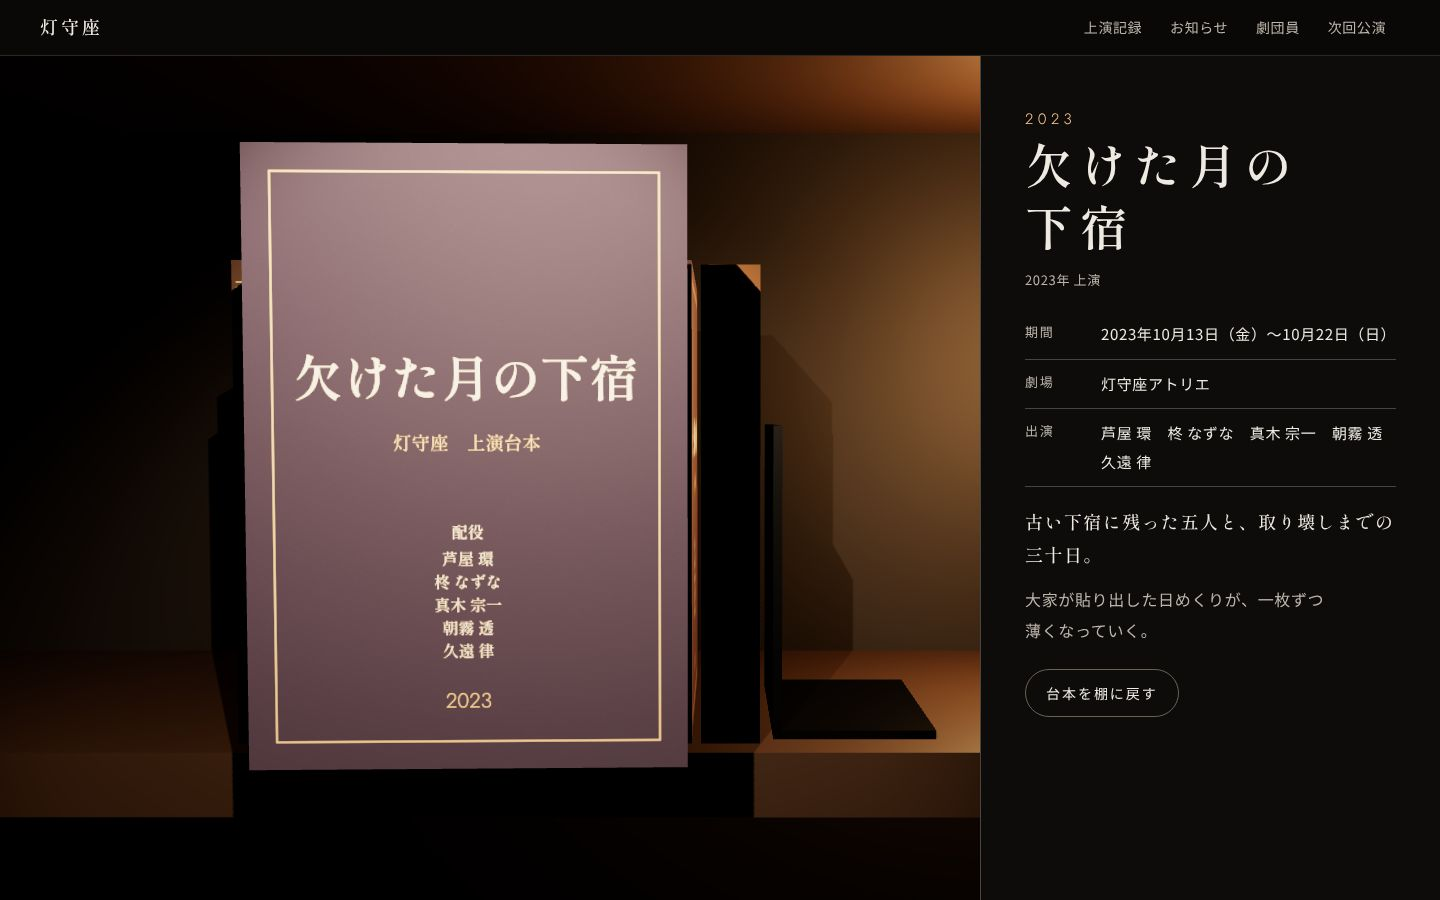
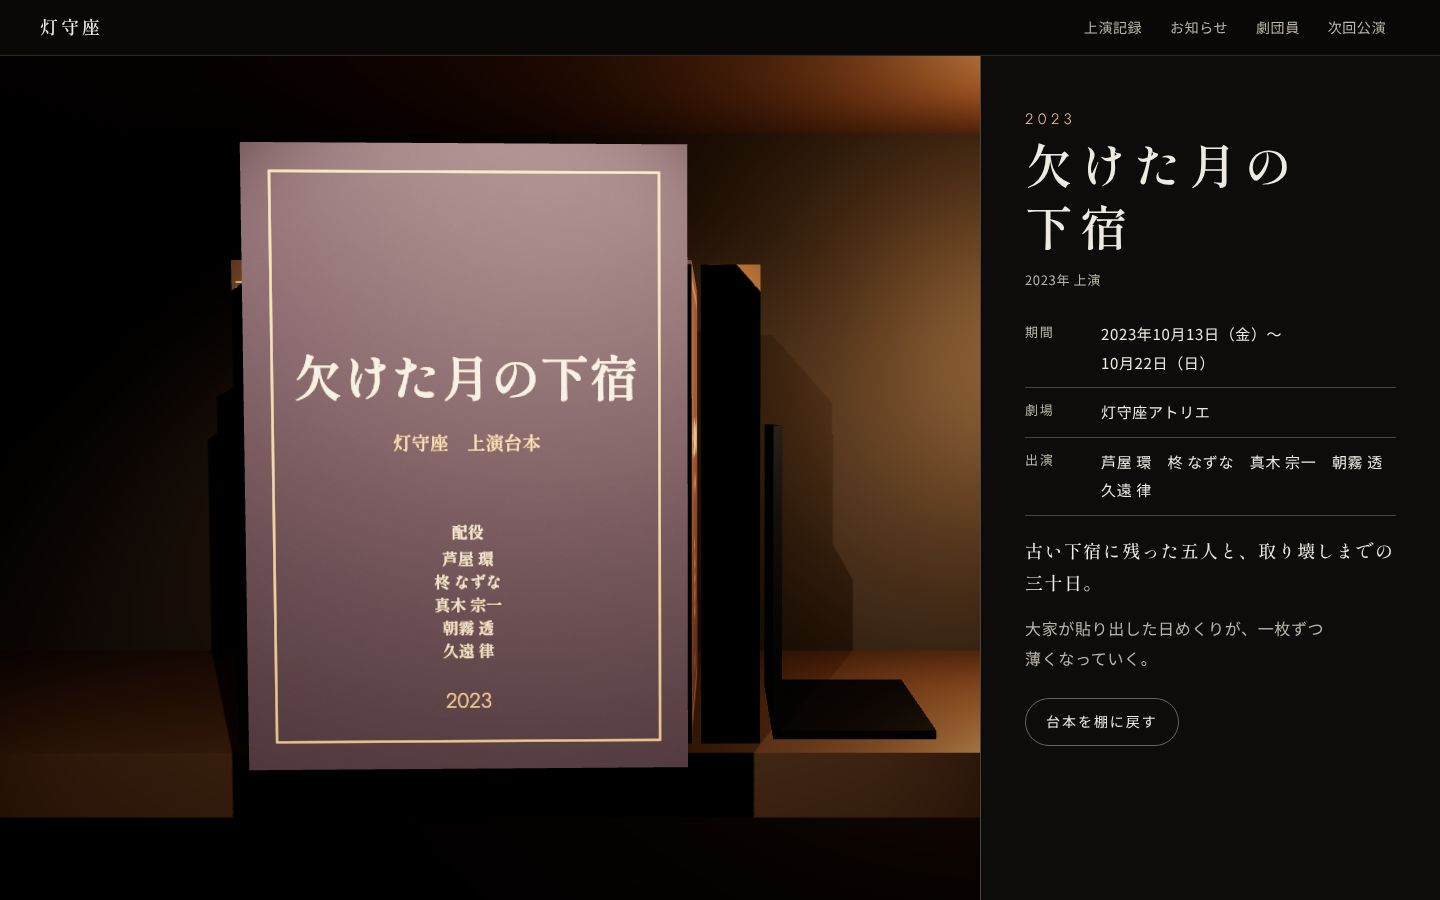
S02-03：劇団 灯守座 公式サイトを完成品（5.67）として保存。審査2回目のあとにスマホでの canvas の潰れと人名の改行を直して公開を更新し、知見を追記
Claude-Session: https://claude.ai/code/session_01BwmUGTgfPEj1Tu5124aDtq

Changed region(s): [[0.7188, 0.3733, 0.9688, 0.8089], [0.875, 0.56, 0.9688, 0.6222], [0.9062, 0.3422, 0.9375, 0.4044]]

diff --git a/studio/projects/S02-03-troupe-site/site/index.html b/studio/projects/S02-03-troupe-site/site/index.html
@@ -6,7 +6,7 @@
 <title>灯守座 公式サイト</title>
 <meta name="description" content="架空の劇団・灯守座の公式サイト。これまでの上演が、劇場の棚に並ぶ台本として並ぶ見本（天狼スタジオ制作）。">
 <link rel="preconnect" href="https://fonts.googleapis.com">
-<link id="fm" rel="stylesheet" href="https://fonts.googleapis.com/css2?family=Shippori+Mincho:wght@500;600&display=swap&text=0123456789%E3%80%80%E3%80%81%E3%80%82%E3%80%8E%E3%80%8F%E3%80%9C%E3%81%82%E3%81%84%E3%81%86%E3%81%88%E3%81%8A%E3%81%8B%E3%81%8C%E3%81%8D%E3%81%8E%E3%81%8F%E3%81%91%E3%81%92%E3%81%93%E3%81%95%E3%81%96%E3%81%97%E3%81%98%E3%81%99%E3%81%9A%E3%81%9B%E3%81%9D%E3%81%9F%E3%81%A0%E3%81%A3%E3%81%A4%E3%81%A6%E3%81%A7%E3%81%A8%E3%81%A9%E3%81%AA%E3%81%AB%E3%81%AD%E3%81%AE%E3%81%AF%E3%81%B0%E3%81%B2%E3%81%B3%E3%81%B6%E3%81%B8%E3%81%B9%E3%81%BB%E3%81%BE%E3%81%BF%E3%82%80%E3%82%81%E3%82%82%E3%82%88%E3%82%89%E3%82%8A%E3%82%8B%E3%82%8C%E3%82%8D%E3%82%8F%E3%82%92%E3%82%93%E3%82%A2%E3%82%A4%E3%82%A6%E3%82%A7%E3%82%A8%E3%82%AA%E3%82%AB%E3%82%AD%E3%82%AF%E3%82%B1%E3%82%B4%E3%82%B5%E3%82%B7%E3%82%B8%E3%82%B9%E3%82%BF%E3%83%81%E3%83%83%E3%83%87%E3%83%88%E3%83%89%E3%83%91%E3%83%95%E3%83%96%E3%83%97%E3%83%9A%E3%83%9B%E3%83%9C%E3%83%A0%E3%83%A7%E3%83%A9%E3%83%AA%E3%83%AB%E3%83%AC%E3%83%B3%E3%83%BB%E3%83%BC%E4%B8%80%E4%B8%89%E4%B8%8A%E4%B8%8B%E4%B8%A6%E4%B8%AD%E4%B8%BB%E4%B9%85%E4%B9%97%E4%BA%88%E4%BA%8C%E4%BA%92%E4%BA%94%E4%BA%A4%E4%BA%BA%E4%BB%A3%E4%BB%B6%E4%BC%91%E4%BC%9A%E4%BD%9C%E4%BF%82%E4%BF%B3%E5%80%89%E5%80%9F%E5%82%98%E5%82%99%E5%84%AA%E5%85%A5%E5%85%AC%E5%86%85%E5%86%99%E5%86%AC%E5%87%BA%E5%88%86%E5%88%97%E5%88%B6%E5%89%8D%E5%8A%87%E5%8A%A0%E5%8B%95%E5%8C%96%E5%8D%81%E5%8D%8A%E5%8D%B0%E5%8F%96%E5%8F%A3%E5%8F%A4%E5%8F%B0%E5%8F%B3%E5%90%88%E5%90%8C%E5%90%8D%E5%90%91%E5%93%81%E5%93%A1%E5%96%AB%E5%9B%9E%E5%9B%A3%E5%9C%A8%E5%9C%B0%E5%A0%B4%E5%A3%81%E5%A3%8A%E5%A3%AB%E5%A3%B2%E5%A4%8F%E5%A4%9A%E5%A4%9C%E5%A4%A7%E5%A4%A9%E5%A5%A5%E5%A8%98%E5%AD%90%E5%AD%A6%E5%AE%88%E5%AE%97%E5%AE%9A%E5%AE%9F%E5%AE%A2%E5%AE%AE%E5%AE%B0%E5%AE%B6%E5%AE%BF%E5%AF%84%E5%AF%9D%E5%B0%8F%E5%B0%91%E5%B1%85%E5%B1%8B%E5%B2%AC%E5%B3%B0%E5%B7%9D%E5%B7%A6%E5%B7%BB%E5%B8%83%E5%B8%AD%E5%B8%B0%E5%B8%B3%E5%B9%B4%E5%BA%97%E5%BA%A7%E5%BA%AB%E5%BC%8F%E5%BC%95%E5%BC%B5%E5%BD%B9%E5%BE%8B%E5%BE%8C%E6%88%BB%E6%89%80%E6%89%8B%E6%8A%9C%E6%8A%BC%E6%8B%A0%E6%8C%81%E6%8C%87%E6%8F%9A%E6%96%87%E6%96%B0%E6%97%97%E6%97%A5%E6%98%8E%E6%99%82%E6%99%A9%E6%9B%B8%E6%9C%80%E6%9C%88%E6%9C%9D%E6%9C%9F%E6%9C%A8%E6%9C%AB%E6%9C%AC%E6%9D%A5%E6%9D%BF%E6%9E%9A%E6%9E%B6%E6%9F%8A%E6%A0%A1%E6%A3%9A%E6%A4%85%E6%A4%9C%E6%A8%AA%E6%AC%A0%E6%AC%A1%E6%AD%A2%E6%AE%8B%E6%AE%B5%E6%AF%8E%E6%B1%BA%E6%B5%81%E6%B8%AC%E6%B8%AF%E6%BC%94%E7%81%AB%E7%81%AF%E7%82%B9%E7%85%A7%E7%89%A9%E7%8B%BC%E7%8E%B2%E7%90%83%E7%90%86%E7%92%B0%E7%94%B1%E7%94%BA%E7%94%BB%E7%95%AA%E7%99%BD%E7%9B%AE%E7%9C%9F%E7%9D%80%E7%9F%A2%E7%9F%A5%E7%A2%BA%E7%A7%BB%E7%A8%8B%E7%A8%BD%E7%A9%BA%E7%AB%8B%E7%AF%A0%E7%B4%84%E7%B4%99%E7%B4%A2%E7%B5%82%E7%B5%90%E7%B7%92%E7%B7%9E%E7%B7%A0%E7%B8%A6%E8%81%9E%E8%83%8C%E8%88%9E%E8%88%9F%E8%89%98%E8%8A%9D%E8%8A%A6%E8%8C%B6%E8%96%84%E8%A1%8C%E8%A1%A8%E8%A3%8F%E8%A3%B8%E8%A6%8B%E8%A6%96%E8%A6%A7%E8%A8%88%E8%A8%98%E8%A9%B1%E8%AA%8D%E8%AA%B0%E8%AD%B0%E8%B2%A8%E8%B2%A9%E8%B2%BC%E8%B5%B0%E8%B6%85%E8%B6%B3%E8%BB%8A%E8%BB%A2%E8%BE%BC%E8%BF%BD%E9%80%8F%E9%81%8E%E9%81%A0%E9%81%A5%E9%81%B8%E9%85%8D%E9%87%8D%E9%87%8F%E9%87%91%E9%8C%B2%E9%8D%AE%E9%8D%B5%E9%96%89%E9%96%8B%E9%96%93%E9%9A%9B%E9%9B%91%E9%9B%A8%E9%9B%BB%E9%9C%A7%E9%9D%A2%E9%A0%86%E9%A1%8C%E9%A4%A8%EF%BC%88%EF%BC%89%EF%BC%9A">
+<link id="fm" rel="stylesheet" href="https://fonts.googleapis.com/css2?family=Shippori+Mincho:wght@500;600&display=swap&text=0123456789%E3%80%80%E3%80%81%E3%80%82%E3%80%8E%E3%80%8F%E3%80%9C%E3%81%82%E3%81%84%E3%81%86%E3%81%88%E3%81%8A%E3%81%8B%E3%81%8C%E3%81%8D%E3%81%8E%E3%81%8F%E3%81%91%E3%81%92%E3%81%93%E3%81%95%E3%81%96%E3%81%97%E3%81%98%E3%81%99%E3%81%9A%E3%81%9B%E3%81%9D%E3%81%9F%E3%81%A0%E3%81%A3%E3%81%A4%E3%81%A6%E3%81%A7%E3%81%A8%E3%81%A9%E3%81%AA%E3%81%AB%E3%81%AD%E3%81%AE%E3%81%AF%E3%81%B0%E3%81%B2%E3%81%B3%E3%81%B6%E3%81%B8%E3%81%B9%E3%81%BB%E3%81%BE%E3%81%BF%E3%82%80%E3%82%81%E3%82%82%E3%82%88%E3%82%89%E3%82%8A%E3%82%8B%E3%82%8C%E3%82%8D%E3%82%8F%E3%82%92%E3%82%93%E3%82%A2%E3%82%A4%E3%82%A6%E3%82%A7%E3%82%A8%E3%82%AA%E3%82%AB%E3%82%AD%E3%82%AF%E3%82%B1%E3%82%B4%E3%82%B5%E3%82%B7%E3%82%B8%E3%82%B9%E3%82%BF%E3%83%81%E3%83%83%E3%83%87%E3%83%88%E3%83%89%E3%83%91%E3%83%95%E3%83%96%E3%83%97%E3%83%9A%E3%83%9B%E3%83%9C%E3%83%A0%E3%83%A7%E3%83%A9%E3%83%AA%E3%83%AB%E3%83%AC%E3%83%B3%E3%83%BB%E3%83%BC%E4%B8%80%E4%B8%89%E4%B8%8A%E4%B8%8B%E4%B8%A6%E4%B8%AD%E4%B8%BB%E4%B9%85%E4%B9%97%E4%BA%88%E4%BA%8C%E4%BA%92%E4%BA%94%E4%BA%A4%E4%BA%BA%E4%BB%A3%E4%BB%B6%E4%BC%91%E4%BC%9A%E4%BD%9C%E4%BF%82%E4%BF%B3%E5%80%89%E5%80%9F%E5%82%98%E5%82%99%E5%84%AA%E5%85%A5%E5%85%AC%E5%86%85%E5%86%99%E5%86%AC%E5%87%BA%E5%88%86%E5%88%97%E5%88%B6%E5%89%8D%E5%8A%87%E5%8A%A0%E5%8B%95%E5%8C%96%E5%8D%81%E5%8D%8A%E5%8D%B0%E5%8F%96%E5%8F%A3%E5%8F%A4%E5%8F%B0%E5%8F%B3%E5%90%88%E5%90%8C%E5%90%8D%E5%90%91%E5%93%81%E5%93%A1%E5%96%AB%E5%9B%9E%E5%9B%A3%E5%9C%A8%E5%9C%B0%E5%A0%B4%E5%A3%81%E5%A3%8A%E5%A3%AB%E5%A3%B2%E5%A4%89%E5%A4%8F%E5%A4%9A%E5%A4%9C%E5%A4%A7%E5%A4%A9%E5%A5%A5%E5%A8%98%E5%AD%90%E5%AD%A6%E5%AE%88%E5%AE%97%E5%AE%9A%E5%AE%9F%E5%AE%A2%E5%AE%AE%E5%AE%B0%E5%AE%B6%E5%AE%BF%E5%AF%84%E5%AF%9D%E5%B0%8F%E5%B0%91%E5%B1%85%E5%B1%8B%E5%B2%AC%E5%B3%B0%E5%B7%9D%E5%B7%A6%E5%B7%BB%E5%B8%83%E5%B8%AD%E5%B8%B0%E5%B8%B3%E5%B9%B4%E5%BA%97%E5%BA%A7%E5%BA%AB%E5%BC%8F%E5%BC%95%E5%BC%B5%E5%BD%B9%E5%BE%8B%E5%BE%8C%E6%88%BB%E6%89%80%E6%89%8B%E6%8A%9C%E6%8A%BC%E6%8B%A0%E6%8C%81%E6%8C%87%E6%8F%9A%E6%96%87%E6%96%B0%E6%97%97%E6%97%A5%E6%98%8E%E6%99%82%E6%99%A9%E6%9B%B8%E6%9C%80%E6%9C%88%E6%9C%9D%E6%9C%9F%E6%9C%A8%E6%9C%AB%E6%9C%AC%E6%9D%A5%E6%9D%BF%E6%9E%9A%E6%9E%B6%E6%9F%8A%E6%A0%A1%E6%A3%9A%E6%A4%85%E6%A4%9C%E6%A8%AA%E6%AC%A0%E6%AC%A1%E6%AD%A2%E6%AE%8B%E6%AE%B5%E6%AF%8E%E6%B1%BA%E6%B5%81%E6%B8%AC%E6%B8%AF%E6%BC%94%E7%81%AB%E7%81%AF%E7%82%B9%E7%85%A7%E7%89%A9%E7%8B%BC%E7%8E%B2%E7%90%83%E7%90%86%E7%92%B0%E7%94%B1%E7%94%BA%E7%94%BB%E7%95%AA%E7%99%BD%E7%9B%AE%E7%9C%9F%E7%9D%80%E7%9F%A2%E7%9F%A5%E7%A2%BA%E7%A7%BB%E7%A8%8B%E7%A8%BD%E7%A9%BA%E7%AB%8B%E7%AE%B1%E7%AF%A0%E7%B4%84%E7%B4%99%E7%B4%A2%E7%B5%82%E7%B5%90%E7%B7%92%E7%B7%9E%E7%B7%A0%E7%B8%A6%E8%81%9E%E8%83%8C%E8%88%9E%E8%88%9F%E8%89%98%E8%8A%9D%E8%8A%A6%E8%8C%B6%E8%96%84%E8%A1%8C%E8%A1%A8%E8%A3%8F%E8%A3%B8%E8%A6%8B%E8%A6%96%E8%A6%A7%E8%A8%88%E8%A8%98%E8%A9%B1%E8%AA%8D%E8%AA%B0%E8%AD%B0%E8%B2%A8%E8%B2%A9%E8%B2%BC%E8%B5%B0%E8%B6%85%E8%B6%B3%E8%BB%8A%E8%BB%A2%E8%BE%BC%E8%BF%BD%E9%80%8F%E9%81%8E%E9%81%A0%E9%81%A5%E9%81%B8%E9%85%8D%E9%87%8D%E9%87%8F%E9%87%91%E9%8C%B2%E9%8D%AE%E9%8D%B5%E9%96%89%E9%96%8B%E9%96%93%E9%9A%9B%E9%9B%91%E9%9B%A8%E9%9B%BB%E9%9C%A7%E9%9D%A2%E9%A0%86%E9%A1%8C%E9%A4%A8%E9%AB%98%EF%BC%88%EF%BC%89%EF%BC%9A">
 <link rel="stylesheet" href="https://fonts.googleapis.com/css2?family=Noto+Sans+JP:wght@400;500&family=Jost:wght@300;400&display=swap">
 <link rel="stylesheet" href="style.css">
 <script type="importmap">{"imports":{"three":"https://cdn.jsdelivr.net/npm/three@0.160.0/build/three.module.js"}}</script>

diff --git a/studio/projects/S02-03-troupe-site/site/app.js b/studio/projects/S02-03-troupe-site/site/app.js
@@ -38,7 +38,7 @@ function route() {
   if (w) {
     $('d-year').textContent = String(w.year); $('d-title').textContent = w.title;
     $('d-status').textContent = w.status === 'planned' ? '上演予定（この台本はまだ稽古中です）' : `${w.year}年 上演`;
-    $('d-when').textContent = when(w); $('d-venue').textContent = w.venue; $('d-cast').textContent = w.cast.join('　');
+    $('d-when').textContent = ''; $('d-when').append(el('span', 'nw', `${w.year}年`), el('span', 'nw', `${md(w.from)}（${w.from_wd}）〜`), el('span', 'nw', `${md(w.to)}（${w.to_wd}）`)); $('d-venue').textContent = w.venue; $('d-cast').textContent = ''; w.cast.forEach((c, i) => { if (i) $('d-cast').append('　'); $('d-cast').append(el('span', 'nw', c)); });
     $('d-log').textContent = w.logline; $('d-syn').textContent = w.synopsis;
     const dl = $('d-link'); dl.textContent = '';
     if (w.status === 'planned') { const a = el('a', null, '公演パンフレット（見本）'); a.href = F.links.pamphlet; a.target = '_blank'; a.rel = 'noopener'; dl.append(a); }
@@ -139,7 +139,7 @@ addEventListener('keydown', e => { if (e.key === 'Escape' && !$('detail').hidden
     camTo.p.set(b.x + sh, .15, wide ? .72 : .72); camTo.l.set(b.x + sh, .13, .24);
   }
   const fit = () => { const w = box.clientWidth, h = box.clientHeight; r.setSize(w, h, false); cam.aspect = w / h; cam.fov = w < h ? 44 : 34; cam.updateProjectionMatrix(); selected ? focusBook(selected) : home(); };
-  addEventListener('resize', fit); fit();
+  addEventListener('resize', fit); new ResizeObserver(fit).observe(box); fit();   // 記録を開くと棚の高さが変わるので、箱の大きさも見張る
   camCur.p.copy(camTo.p); camCur.l.copy(camTo.l);
   onSelect = id => { selected = id ? books.find(b => b.w.id === id) : null; selected ? focusBook(selected) : home(); };
 

diff --git a/studio/projects/S02-03-troupe-site/site/style.css b/studio/projects/S02-03-troupe-site/site/style.css
@@ -102,3 +102,4 @@ time, .nw { white-space: nowrap; }
 @media (max-width: 899px) { .shelf.open .stagebox { height: 52svh; min-height: 0; } }
 @media (orientation: landscape) and (max-height: 500px) { .stagebox { min-height: 0; height: calc(100svh - 56px); } }
 @media (prefers-reduced-motion: reduce) { .stagebox { transition: none; } }
+.stagebox canvas:focus-visible { outline-offset: -4px; }

diff --git a/studio/works/pass/S02-03-troupe-site/README.md b/studio/works/pass/S02-03-troupe-site/README.md
@@ -1,0 +1,20 @@
+# S02-03 劇団 公式サイト「灯守座」（架空）— 完成品（5.67）
+
+- 等級: 完成品（審査1回目 5.50・判定 fix → 修正 → 2回目（最終）5.67・判定 publish。critical なし、Web の数値ゲートも合格）
+  - 1回目の critical: 記録に facts.json に無い「第N回公演」の通し番号を出していた → 「2023年 上演」に替えた
+- 公開（Artifact）: https://claude.ai/artifact/PtXv8o4iffAqvS7nWmPCsf
+- 本体: `studio/projects/S02-03-troupe-site/site/`（data.js と明朝のサブセットは build.py が facts.json から生成。公演を足すときは facts.json の works に1件足して build.py を走らせる）
+- 内容: 架空の劇団・灯守座（S02-06 パンフレット・S02-07 アーカイブ・S09-07 と同じ劇団と人物）の公式サイト
+  - ヒーローは three.js の劇場の棚。2019〜2026年の8冊の台本が布張りの背表紙（縦書きの明朝の題・年）で並び、クリップライトと真鍮のゴーストライトが照らす
+  - 背表紙を選ぶと（クリック・一覧・キーボードの←→と Enter）、台本が 80ms 奥へ沈んでから引き出され、ばねで表紙をこちらに向ける。#/w/<id> の URL で記録が開く（PC は右のパネル、スマホは下）
+  - お知らせ・劇団員・次回公演（冬の灯、上演予定）
+- 2回目の審査のあとに直したこと（等級は審査どおり）:
+  - スマホで記録を開くと棚の高さが変わり、canvas が縦に潰れていた → ResizeObserver で箱の大きさを見張る
+  - 出演の人名が姓と名の間で折れていた → 人名ごとに改行しない
+  - canvas のフォーカス枠が切れていた → outline-offset を内側に
+- 次に直すなら（審査の指摘）:
+  - 記録パネルを、台本の回転に合わせてずらしながら出す（今は瞬時に出る）
+  - 表紙を開き、扉頁に縦書きのログラインを刷る
+  - 開いたときに隣の台本と棚が黒く落ちないよう、手前に弱い補助光
+  - キャプションの下地を画面の下からのグラデーションに替える
+  - フッターに冒頭のゴーストライトを置いて韻を踏む

diff --git a/studio/knowledge/playbook.md b/studio/knowledge/playbook.md
@@ -526,3 +526,10 @@ SKILL の「テスト」が手順 1〜6、「制作」が手順 7〜10 にあた
 - 位置の計算に offsetTop を使うと、親が position: relative のとき 0 になる。getBoundingClientRect().top + scrollY を使う
 - 音に反応する照明は、RMS をそのまま掛けると「鳴ると明るくなる段差」にしか見えない。曲ごとの p90 で正規化し、拍ごとのパルスを入れる（次回の課題）
 - au.play() は Promise を返す。catch しないと早押しで AbortError がコンソールの error に出る
+
+### S02-03 劇団 公式サイト（2026-11-08、完成品 5.50→5.67）
+- **画面に出す番号（第N回公演など）も facts に書いてから出す**。配列の順番から作った通し番号は「正本に無い数字」として critical になった
+- 3D の「選ぶと物が動いて開く」は、予備動作（80ms 奥へ沈む）とばね（w0=10, ζ=0.78）の回転で動きの点が上がった。ばねの速度は 0 で初期化する（undefined だと NaN になり、物が全部消える）
+- canvas を入れた箱の高さを CSS で変えるなら、window の resize だけでなく ResizeObserver で fit() を呼ぶ。でないと描画が縦に潰れる
+- 人名は姓と名の間で折らない（span.nw で包み、区切りの全角スペースは外に出す）
+- Three.js の MeshStandardMaterial に CanvasTexture の布色を貼ると、ACES とスポットで暗い色が明るく転ぶ。露出 0.8 前後・スポット弱めにして、布の色が出ているかスクショで確かめる

diff --git a/studio/knowledge/published-artifacts.md b/studio/knowledge/published-artifacts.md
@@ -34,3 +34,4 @@ Artifact の制約（変換の道具で吸収している）:
 - S05-09 室内楽団サイト: https://claude.ai/artifact/BP5Moxpu9eQtQFc2tJGL1W
 - S05-07 ライバー公式サイト: https://claude.ai/artifact/VmfnpdDwdrh5nmq8msktwN
 - S05-02 シンガーソングライター公式サイト: https://claude.ai/artifact/6DcfRJH5JCZd2x7VsgrB5F
+- S02-03 劇団 灯守座 公式サイト: https://claude.ai/artifact/PtXv8o4iffAqvS7nWmPCsf
